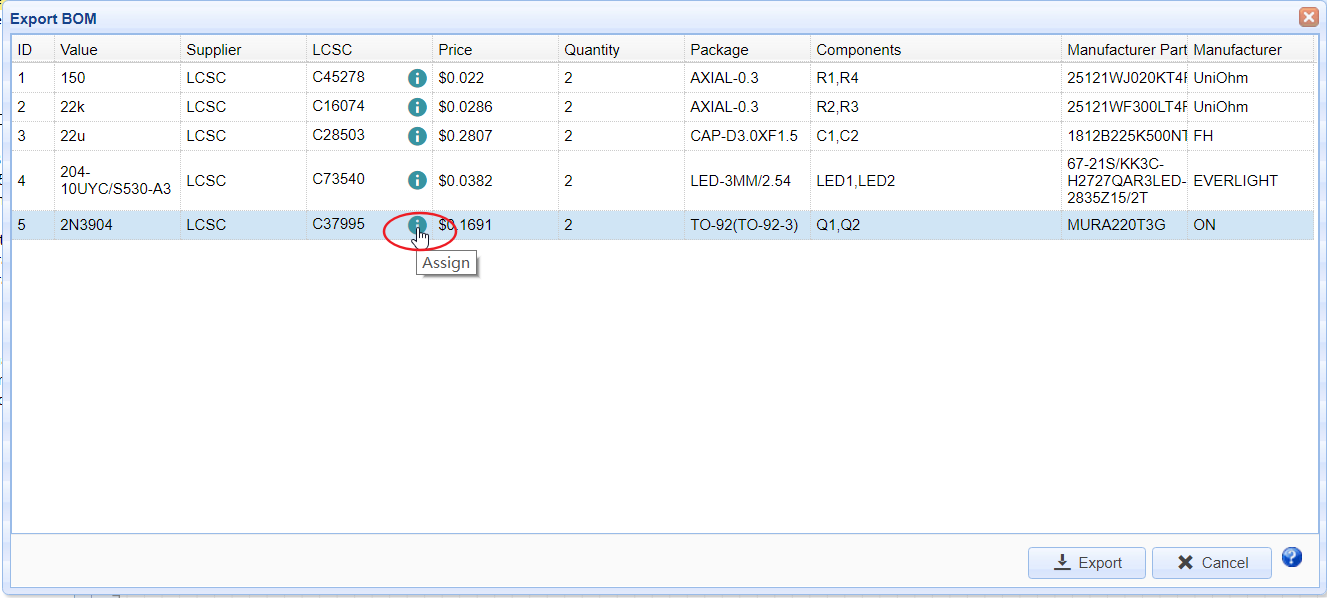
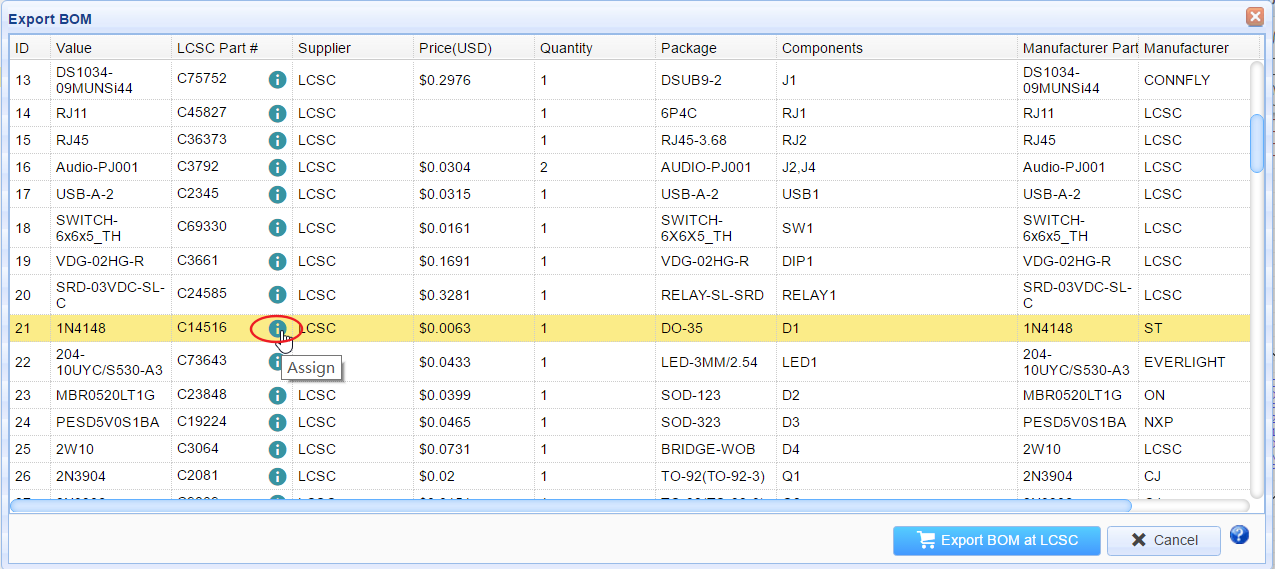
Update whatsnew in v4.8.5

diff --git a/Tutorial/WhatsNew.md b/Tutorial/WhatsNew.md
@@ -1,13 +1,62 @@
 
-# What is new in V4.6.4 
+# What is new in V4.8.5 
  
-EasyEDA has lots of new features in the version V4.6.4. Try it via [https://easyeda.com/editor](https://easyeda.com/editor).
+EasyEDA has lots of new features in the version v4.8.5.  
+Try it via [https://easyeda.com/editor](https://easyeda.com/editor).
 
 ## Demo Video
 
 <iframe width="906" height="488" src="https://www.youtube.com/embed/gnffNQcJezY" frameborder="0" allowfullscreen></iframe>
 
-## New Footprint Manager
+
+
+## Desktop Version 
+
+We are glad to tell you that we are providing desktop version now. In desktop version you can keep your design at local.   
+The more information and download, Please refer to [https://easyeda.com/page/download](https://easyeda.com/page/download)  
+
+![](images/285_Introduction_DesktopVersion.png)
+
+## Documents Tab Switch
+
+It's easy to fit your documents tab location.  
+![](images/279_Introduction_EditorTabSwitch.gif)
+
+## Protractor
+
+We add a protractor for PCB tools.  
+![](images/280_PCB_PCBTools_Protractor.gif)
+
+## Footprint Manager Enhanced
+
+1.Footprint manager will check your part's package correct or not automatically.  If the part without the package or this package doesn't exist in EasyEDA Libraries, or if the part's Pins doesn't correspond the package's Pads correctly, the footprint manager will show the red alert.   
+Notice：If your schematic have many different packages, the footprint manager will take a few seconds to the check packages.  
+2.In the preview area, you can zoom in, zoom out and pan with mouse.  
+![](images/281_Schematic_FootprintManagerEnhance.png)
+
+## LCSC Assembly Components
+
+We add an LCSC Assembly Components option of the Parts, It's easy to choose which component can be assembled by LCSC.   
+Yes, We will provide the assembly service at end of this year.
+![](images/282_Schematic_Parts_AssemblyComponents.png)
+
+## Buy Components From LCSC More Easily
+
+We change the BOM export location in at LCSC.
+![](images/284_Export_BOM_ExportBOMDailog.png)  
+
+When you click "Export BOM at LCSC", we will help you to list all the components of your BOM,  and you just need to put them to the cart and check out.  
+
+![](images/283_Export_BOM_ExportFromLCSC.png)
+And Click the "BOM" button to download the BOM file.
+
+
+
+
+
+
+# What is new in V4.6.4 
+**New Footprint Manager**
 
 In this version we provide a powerful footprint manager tool.
 It supports batch modifying component packages. For more detail please refer to the [Footprint Manager](./Schematic.htm#Footprint-Manager) section.
@@ -17,26 +66,26 @@ It supports batch modifying component packages. For more detail please refer to 
 ![](images/267_Schematic_FootprintManagerUI.png)
 
 
-## New Arc tool
+**New Arc tool**
 
 A new arc tool which is center point fixed, and you can change the radius easily.
 
 ![](./images/269_PCB_Arc_Center.gif)
 
-## Global Delete
+**Global Delete**
 
 Have you been upset because you couldn't delete the same units of schematic or PCB. Now we tried to solve this problem via the global delete feature.
 You can easily globally delete the same units of your choice.
 
 ![](./images/272_Introduction_Skill_GlobalDelete.png)
 
-## Move selected component
+**Move selected component**
 
 When moving the selected component, the connected wire will move vertically and horizontally.
 
 ![](images/273_Schematic_WireAndComponentMove.gif)
 
-## BOM export on the top toolbar
+**BOM export on the top toolbar**
 
 ![](images/273_Export_BOM_Icon.png)
 
@@ -49,7 +98,7 @@ After clicking on the assign icon，the components and packages search dialog wi
 ![](images/274_Export_BOM_Assigned.png)
 
 
-## More Align options
+**More Align options**
 
 The Editor provides more alignment options as below. 
 These options can make your design more convenient.
@@ -57,7 +106,7 @@ These options can make your design more convenient.
 ![](images/275_Introduction_Align.png)
 
 
-## Import enhance
+**Import enhance**
 
 **New Altium Design Import**  
   It is faster and better, and it support big files. Please make sure that you save the file as ASCII before importing.  

diff --git a/Tutorial/Introduction.md b/Tutorial/Introduction.md
@@ -431,14 +431,14 @@ EasyEDA provides a team feature with which you can work seamlessly with your par
 
 ![](./images/212_Introduction_Account_UpgradeToTeam.png)  
 
-**Tips about the team function.**
-    1. If you switch to a team, you can't automatically use any Packages/Footprints which you have created under your personal account. You need to **Favorite** your personal package/components first. 
+**Tips about the team function.**  
+1.If you switch to a team, you can't automatically use any Packages/Footprints which you have created under your personal account. You need to **Favorite** your personal package/components first. 
 
-    2. You need to be aware that your team and your personal accounts are the different, separate accounts and that you can't use them both at the same time.  
+2.You need to be aware that your team and your personal accounts are the different, separate accounts and that you can't use them both at the same time.  
 
-    3. After making yourself the owner of a team, it is best to create any Components and Packages needed by the team under that team.
+3.After making yourself the owner of a team, it is best to create any Components and Packages needed by the team under that team.
 
-    4. If you add a member, nominated to be your accountant, to your team then they can deal the team billing and invoices.
+4.If you add a member, nominated to be your accountant, to your team then they can deal the team billing and invoices.
 
 
 #### User Preferences
@@ -1052,7 +1052,10 @@ or select the ellipse and then use:
 
 **Align > Send to Back**
 
+#### Documents Tab Switch
 
+It's easy to fit your documents tab location.  
+![](images/279_Introduction_EditorTabSwitch.gif)
 
 #### Saving Your Work Locally
 

diff --git a/Tutorial/Schematic.md b/Tutorial/Schematic.md
@@ -340,6 +340,11 @@ Suppose you wanted the find the **MAX232** (which converts signals from an [RS-2
 
 When you hover the mouse over the picture of the Schematic symbol or PCB footprint, you will find a toolbar with ”Edit”, “Place”, “More” buttons.
 
+**LCSC Assembly Components**
+
+We add an LCSC Assembly Components option of the Parts, It's easy to choose which component can be assembled by LCSC. Yes, We  provide the assembly service.
+![](images/282_Schematic_Parts_AssemblyComponents.png)
+
 **Place**:
 For parts you use infrequently, you don’t need to Favorite them; just Place it into your canvas directly.  
 
@@ -473,6 +478,10 @@ There are two ways to open the footprint manager:
 
 - Click the package input box of custom attributes when you've selected a component:  
   ![](images/265_Schematic_FootprintManagerPullOut.png)
+
+1.Footprint manager will check your parts package correct or not automatically.  If the part without the package or this package doesn't exist in EasyEDA Libraries, or if the part's Pins doesn't correspond the package's Pads correctly, the footprint manager will show the red alert. 
+2.In the preview area, you can zoom in, zoom out and pan with mouse.
+![](images/281_Schematic_FootprintManagerEnhance.png)
 
 ### Update Package
 

diff --git a/Tutorial/Export.md b/Tutorial/Export.md
@@ -44,7 +44,11 @@ After clicking on the assign icon，the components and packages search dialog wi
 
 ![](images/274_Export_BOM_Assigned.png)
 
-Clicking the Export button downloads a BOM.csv file via your browser, you can open it in any text editor or spreadsheet.
+When you click "Export BOM at LCSC", we will help you to list all the components of your BOM,  If you want to buy the components form LCSC, and you just need to put them to the cart and check out.  
+![](images/284_Export_BOM_ExportBOMDailog.png)  
+
+![](images/283_Export_BOM_ExportFromLCSC.png)
+And Click the "BOM" button to download the BOM file. You can open it in any text editor or spreadsheet.
 
 ![](images/086_Export_BOM_CSV.png)
 

diff --git a/Tutorial/PCB.md b/Tutorial/PCB.md
@@ -175,6 +175,11 @@ The image will be inserted to the active layer, if it is not right, you can chan
 
 This option is the same as schematic's Canvas Origin.
 
+### Protractor
+
+We provide a protractor for PCB tools.  
+![](images/280_PCB_PCBTools_Protractor.gif)
+
 ### Connect Pad to Pad
 
 When creating a PCB without a Schematic, none of the pads on the Footprints have nets connecting them so there will be no ratlines. 
